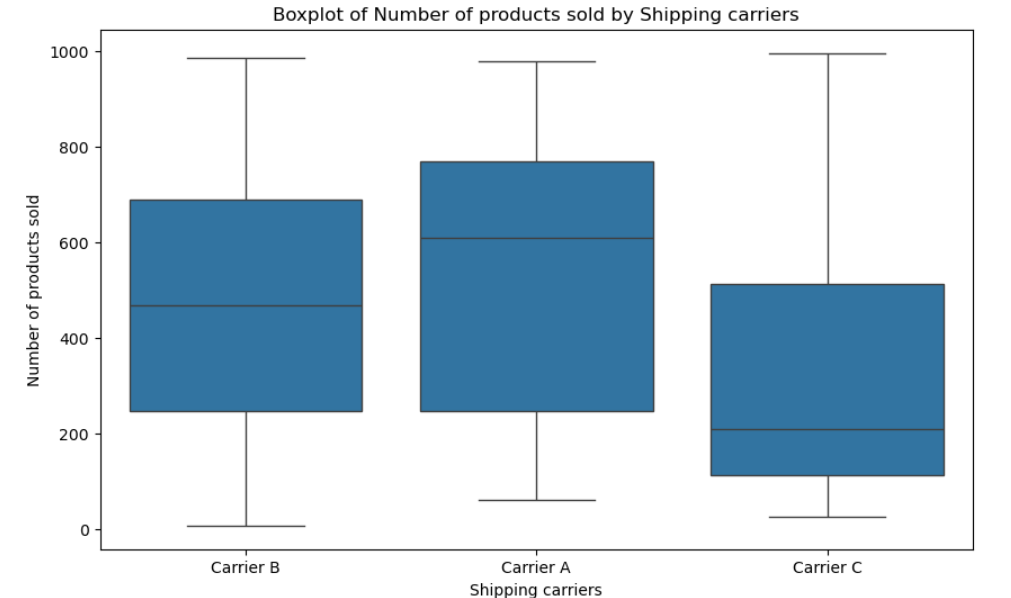
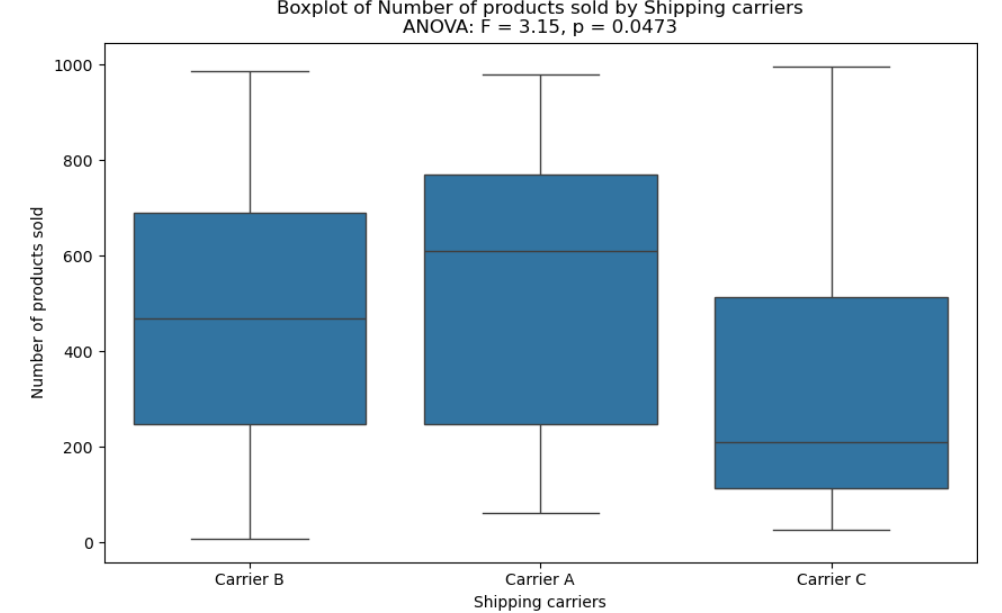
update

Changed region(s): [[0.0309, 0.0, 0.99, 1.0]]

diff --git a/README.md b/README.md
@@ -43,9 +43,10 @@ In this project, we analyze supply chain data from a Fashion and Beauty startup,
 2. Initial Data Overview
 3. Data Cleaning & Formatting
 4. Univariate Analysis
-5. Bivariate/Multivariate Analysis
-6. Outlier Detection
-7. Data Quality Summary
+5. Bivariate
+6. Multivariate Analysis
+7. Outlier Detection
+8. Data Quality Summary
 
 
 ## Exploratory Data Analysis (EDA)
@@ -58,9 +59,6 @@ import pandas as pd
 import numpy as np 
 import seaborn as sns
 import matplotlib.pyplot as plt
-import plotly.express as px
-import plotly.graph_objects as go
-
 
 # Load the dataset into a DataFrame using 'pandas'.
 df = pd.read_csv("supply-chain-analysis/supply_chain_data.csv")
@@ -211,33 +209,30 @@ plt.show()
 - Products labeled with 'Unknown' in the customer demographics may indicate items that are used by any gender and potentially suitable for all age groups, including children.
 ---
 
-### 5. Bivariate and Multivariate Analysis
+### 5. Bivariate Analysis
 
-#### Bivariate Analysis
-
-To indentify the relationship between variables, three functions will be define, based on the types of varables: categorical and numerical with continous variables. 
+To identify the relationship between two variables, three functions will be define, based on the types of variables which are categorical and numerical with continous variables. 
 
 Function will be define based on type of variable: 
  - Scatter plot, Pearson and Spearman correlation will be used to determine the relationship between continous numerical variables.
- - The Chi Square test will be used to check the relationship between categorical variables.
+ - The Chi-Square test will be used to check the relationship between categorical variables.
  - The ANOVA test will be used to determine relationship between categorical and numerical variables.
 
 
 ```python
 # Import library
-import pandas as pd
-import numpy as np
-import seaborn as sns
-import matplotlib.pyplot as plt
-from scipy.stats import pearsonr, spearmans, chi2_contingency
+from scipy.stats import pearsonr, spearmans, chi2_contingency, f_oneway
 ```
 
 ```python
 # Bivariate analysis between numerical variables (Correlation & Scatter Plot)
 def numerical_bivariate_analysis(df, var1, var2):
+    
+    # Pearson & Spearman Correlation test
     print(f"Pearson Correlation: {pearsonr(df[var1], df[var2])}")
     print(f"Spearman Correlation: {spearmanr(df[var1], df[var2])}")
 
+    # Scatter plot
     plt.figure(figsize=(8, 5))
     sns.scatterplot(data=df, x=var1, y=var2)
     plt.title(f'Scatter Plot of {var1} vs {var2}')
@@ -245,17 +240,31 @@ def numerical_bivariate_analysis(df, var1, var2):
 
 # Bivariate analysis between numerical & categorical variable (Boxplot & ANOVA)
 def categorical_numerical_analysis(df, cat_var, num_var):
+        
+    # ANOVA test
+    groups = [group[num_var].dropna().values for name,
+    group in df.groupby(cat_var)]
+    if len(groups) > 1:
+        stat, p = f_oneway(*groups)
+        anova_text = f'ANOVA: F = {stat:.2f}, p = {p:.4f}'
+    else:
+        anova_text = 'ANOVA: Not enough groups'
+
+    # Boxplot
     plt.figure(figsize=(15,8))
     sns.boxplot(data=df, x=cat_var, y=num_var)
     plt.title(f'Boxplot of {num_var} by {cat_var}')
     plt.show()
 
-# Bivariate analysis between categorical variables (Chi-square test)
+# Bivariate analysis between categorical variables (Heatmap & Chi-square test)
 def categorical_bivariate_analysis(df, var1, var2):
+    
+    #Chi-square test
     contingency_table = pd.crosstab(df[var1], df[var2])
     chi2, p, dof, expected = chi2_contingency(contingency_table)
     print(f"Chi-square Test: Chi2={chi2}, p-value={p}")
 
+    # Heatmap
     plt.figure(figsize=(8, 5))
     sns.heatmap(contingency_table, annot=True, cmap="Blues", fmt='d')
     plt.title(f'Heatmap of {var1} vs {var2}')
@@ -263,39 +272,88 @@ def categorical_bivariate_analysis(df, var1, var2):
 ```
 ---
 
-`Production volumes` vs `Manufacturing lead time`
+### `Production volumes` vs `Manufacturing lead time`
 
 ```python
 numerical_bivariate_analysis(df,'Production volumes','Manufacturing lead time')
 ```
 Output:
 
- ![IMAGE 10: BAR CHART](10_bivariate_num.png)
+ ![IMAGE 10: SCATTER PLOT](10_bivariate_num.png)
 
--   Both Pearson and Spearman correlation analyses and the p values greater than 0.05 show no statistically significant relationship between the variables. 
-- The correlation coefficient are low and and the scatter plot shows no liner or monotonic trend and therefore there are no relationship between the variables.
+-   Both Pearson and Spearman correlation analyses and the p-values greater than 0.05, show no statistically significant relationship between the variables. 
+- The correlation coefficient are low, and the scatter plot shows no liner or monotonic trend; therefore there is no relationship between the variables.
 
-Overall, a correlation anlysis was conducted to exploe the relationship between all numerical variables using scatter plot, Pearson and Spearman corelation tests.
+Overall, a correlation anlysis was conducted to explore the relationship between all numerical variables using scatter plot, Pearson and Spearman correlation tests.
 
-Across all variables, no statistically significant relationship were found since the p-values exceeding 0.05. Then, all the numerical variables operate independently. As a result, other analytical methods may be use for appropiate  for identifying patterns in the data. 
+Across all variables, no statistically significant relationship were found, as the p-values exceeded 0.05. Then, all the numerical variables operate independently. As a result, other analytical methods may be use for appropiate  for identifying patterns in the data. 
 
 ---
-`Shipping carriers` vs `NUmber of product sold`
+### `Shipping carriers`  vs  `Number of product sold`
 
 ```python
 categorical_numerical_analysis(df,'Shipping carriers','Number of products sold')
 ```
-![IMAGE 11: BAR CHART](11_bivariate_cat_num.png)
+Output:
+
+![IMAGE 11: BOX PLOT](11_bivariate_cat_num.png)
+
+The ANOVA test and p-value indicate a statistically significant difference in the number of products sold accross shipping carriers.
+
+-   Carrier A shows highest median number of product sold compared to Carrier B and C.
+
+-   Carrier C has longer upper whisker, indicating greater variability above median. All shipping carriers have no outlier as the values remain within the ranges.
+
+-   The Box for carrier A is wider indicating greater variation (larger interquartile range) in the number of products sold compared to Carrier B and C.
+
+This reveals that Carrier A consistently manages more varied shipment sizes while Carrier C occasionally handles large shipment size. These could guide shipping strategy optimization to align selection of carrier with order size patterns.
 
 ---
-`Product type` vs `Customer demographics`
+### `Product type` vs `Customer demographics`
 
 ```python
 categorical_bivariate_analysis(df,'Product type','Customer demographics')
 ```
+Output:
 
-![IMAGE 12: BAR CHART](12_bivariate_cat.png)
+![IMAGE 12: HEAT MAP](12_bivariate_cat.png)
+
+For categorical bivariate analysis, the variables are statistically significant where the p-value is less than 0.05.
+
+- Based on the product designed for different customer demographics, the Unknown category includes the highest number of  haircare SKUs sold by the company, followed by Male and Non-Binary categories. Female category has the lowest number of hair care SKUs.
+
+- For skincare, Female category  has the highest number of SKUs, followed by Non-binary, Unknown and Male categories. 
+
+- Similar to skincare, Female product category also dominates the number of Cosmetics SKUs. followed by the Unknown category.
+
+These findings highlight how the company’s product offerings are distributed across customer demographics and can support decisions in product development or targeted marketing.
 
 ---
-### 8. cleaned data
+### 6. Multivariate Analysis
+
+In this section, a heat map was created to visualize the correlation and strength of relationships. The gradient colors indicate positive, negative or no correlation which providing an overview of how the variables relate.
+
+```python
+sns.heatmap(df.corr(numeric_only=True), annot = True)
+plt.rcParams['figure.figsize'] = (20,10)
+plt.show()
+```
+
+
+Output:
+
+![IMAGE 13: HEAT MAP 2](13_matrix_corr.png)
+
+
+- The correlation matrix shows all variables have weak linear relationship, where the coefficients between -0.3 and +0.3. This indicates that no strong linear correlation exists among the variables.
+
+Despite the linear correlation, the variables remain valuable for EDA to explore distributions, group differences, and potential non-linear patterns.
+
+---
+### 7. Outlier detection
+
+The Interquartile Range (IQR) method is used to detect outliers in variables. Data points are labelled as outliers if they fall below Q1 minus 1.5 times the IQR or above Q3 plus 1.5 times the IQ, where IQR = Q3 - Q1 . This method is simple and fit skewed business data.
+
+---
+### 8. Cleaned data
  -  Download Link for cleaned data: [*Supply Chain Cleaned Data*](https://github.com/azerinnan/draft_EDA_supplychain/blob/main/supplychain_cleaned_data.csv)
